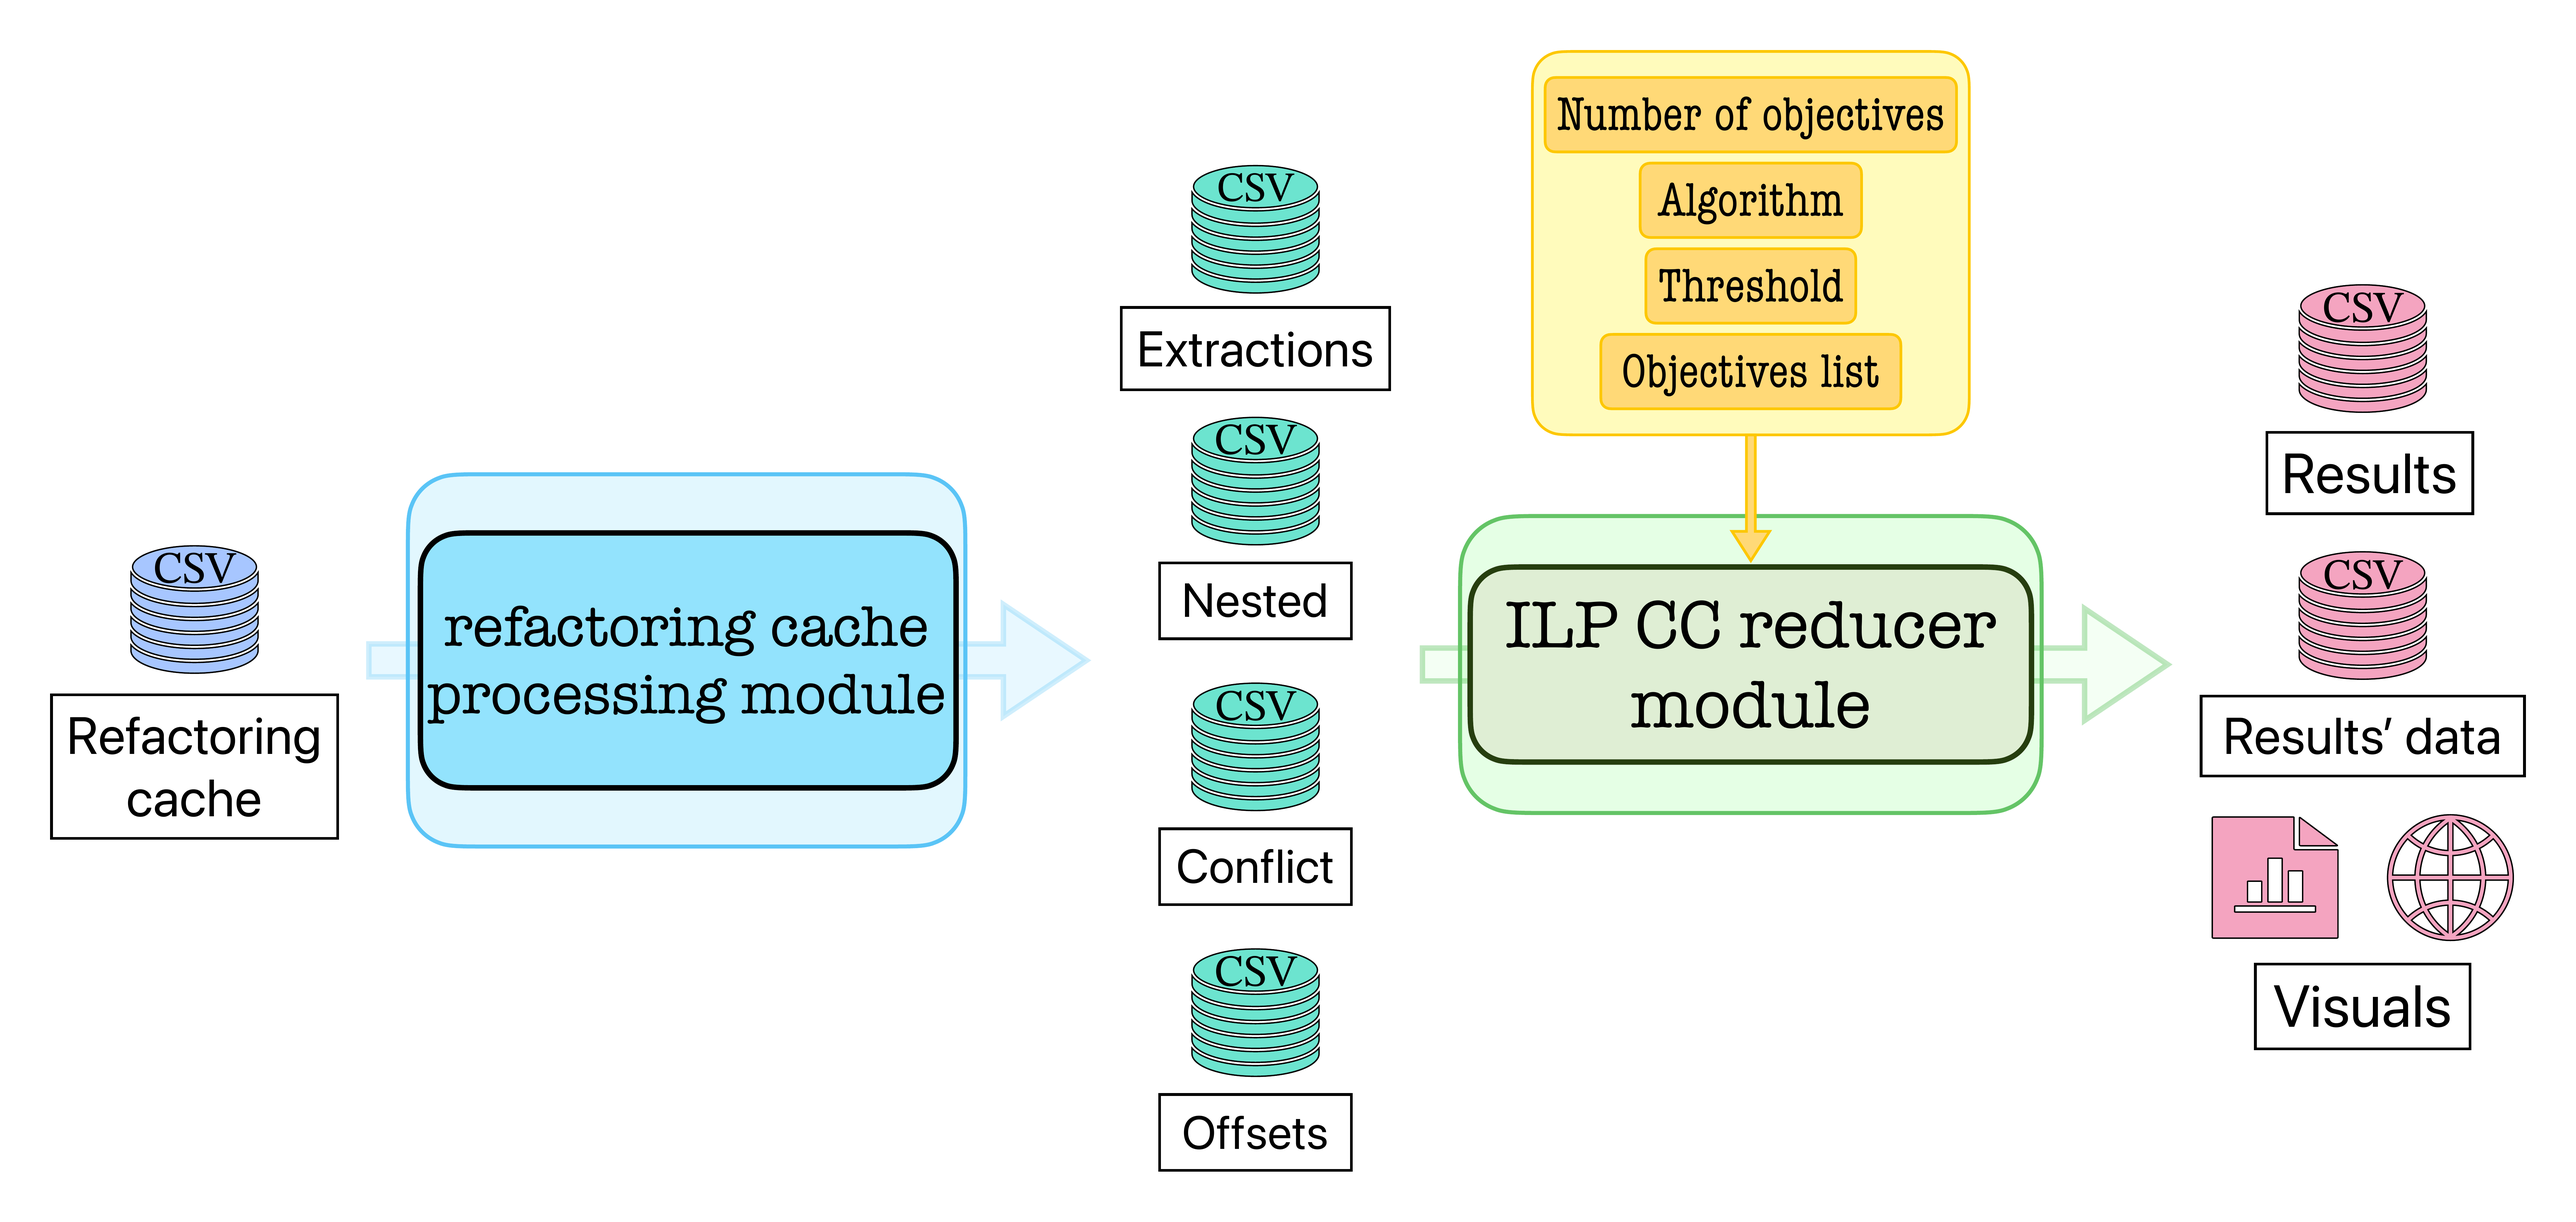
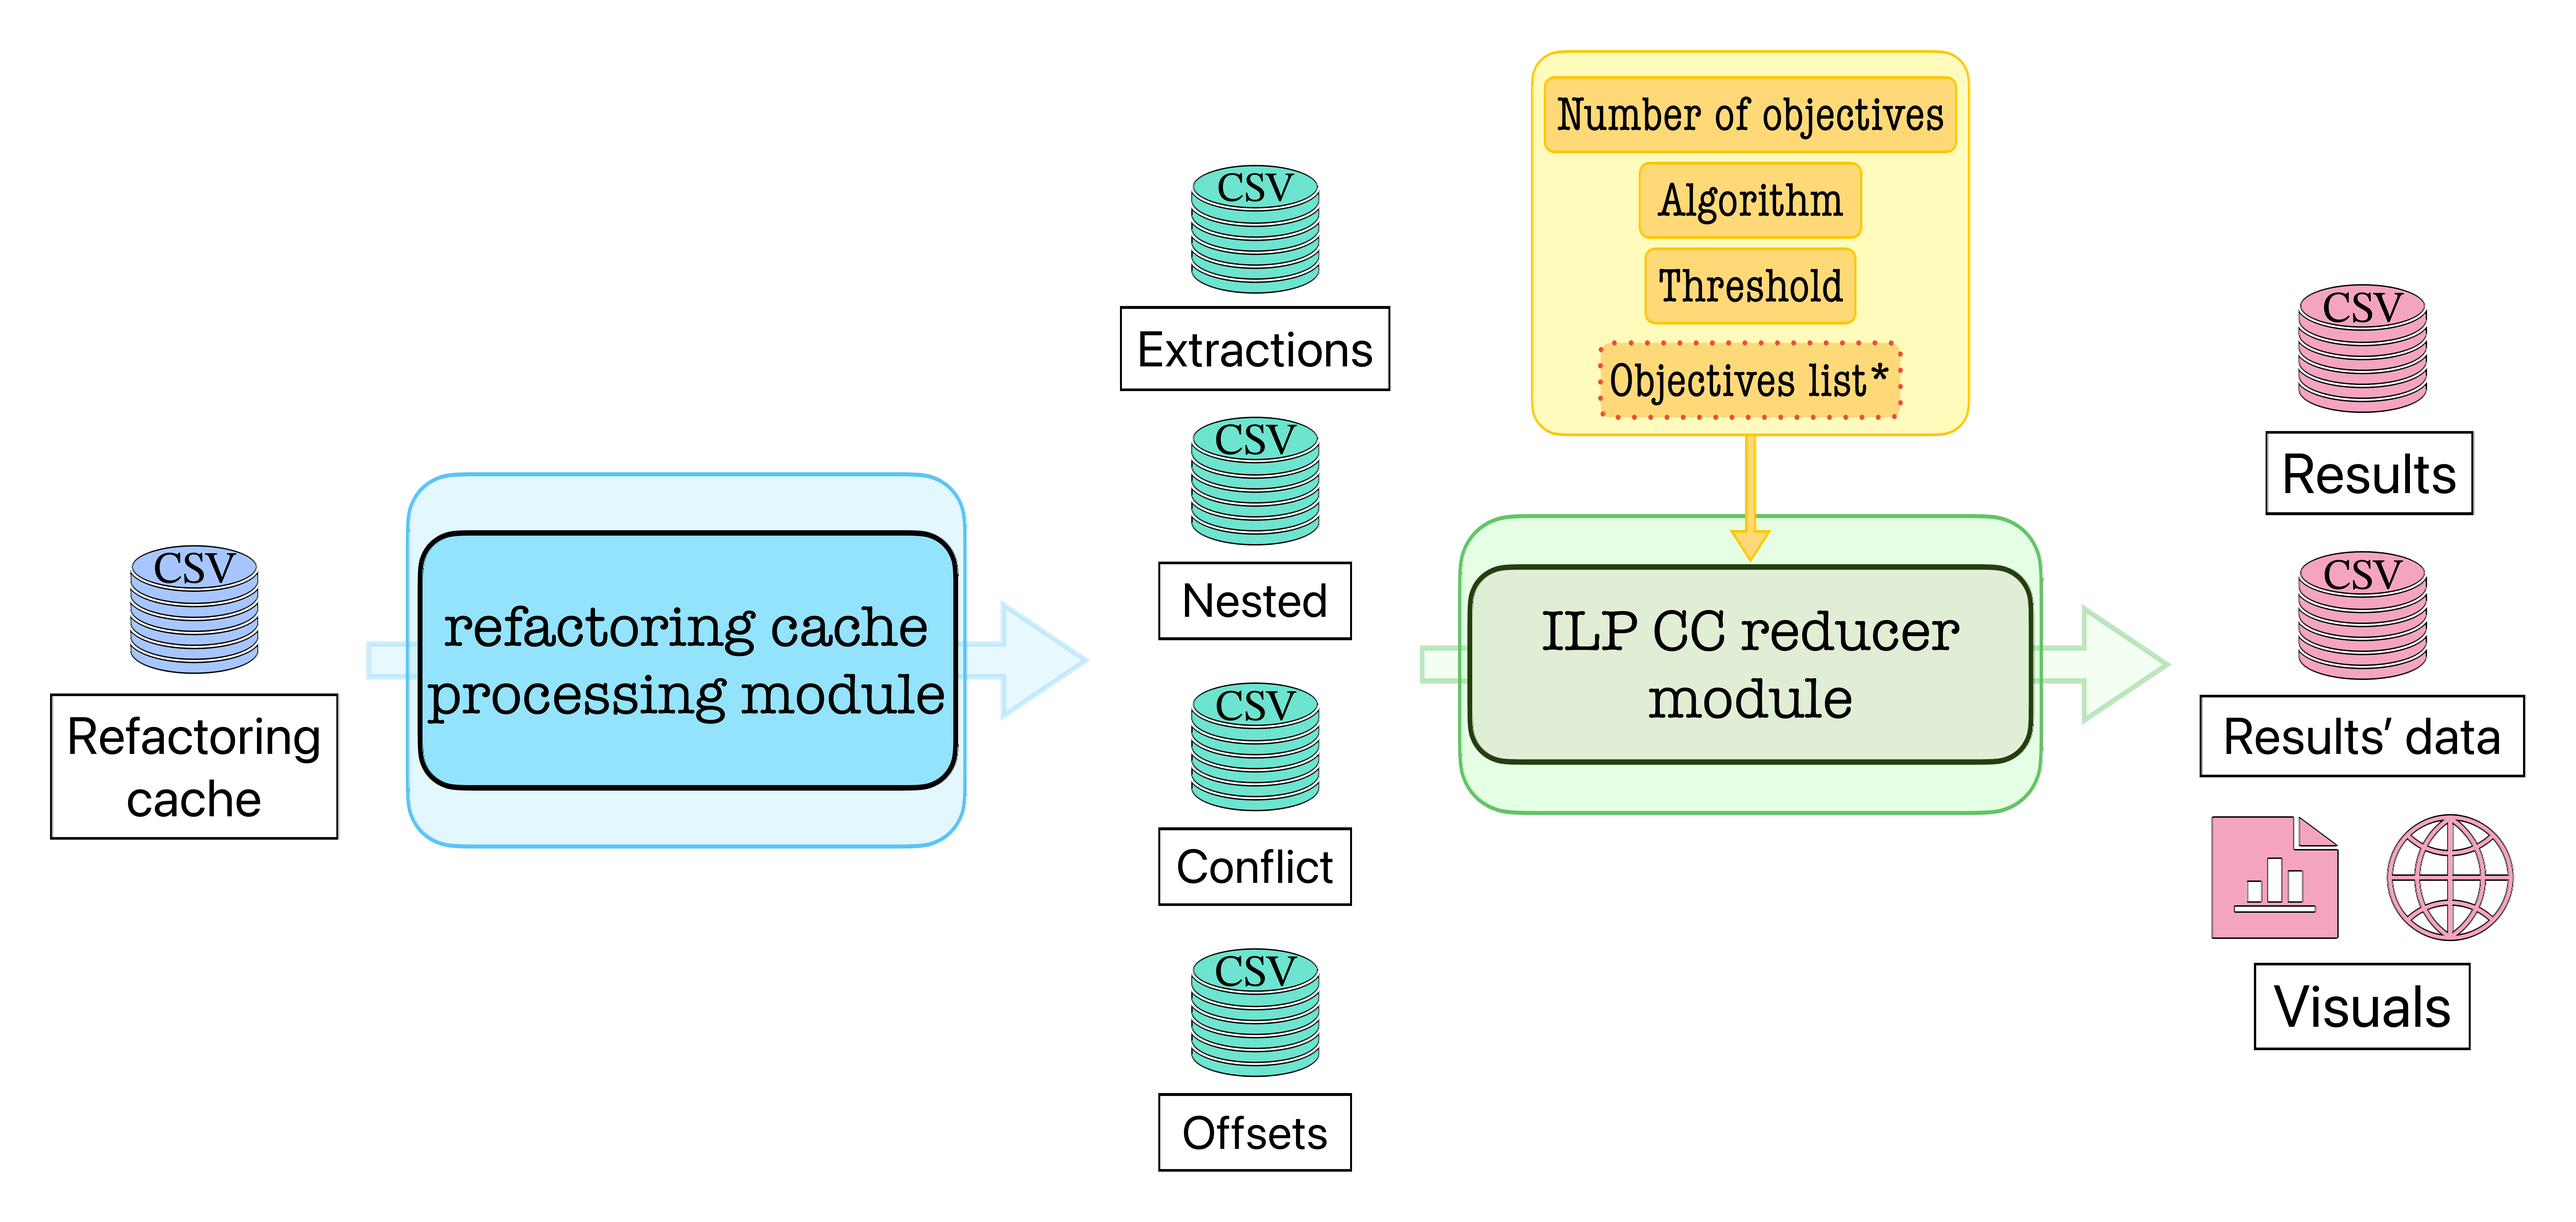
Minor changes on readme

Changed region(s): [[0.6233, 0.2488, 0.7479, 0.3421], [0.5609, 0.4976, 0.7791, 0.5287], [0.6233, 0.5598, 0.7168, 0.5909]]

diff --git a/README.md b/README.md
@@ -84,24 +84,24 @@ python main.py [OPTIONS]
 
 ## 🔧 Arguments
 
-| Argument                    | Description                                                                                                                                                                                                                         |
-|-----------------------------|-------------------------------------------------------------------------------------------------------------------------------------------------------------------------------------------------------------------------------------|
-| `-f`, `--file`              | Path to a `.ini` file containing all parameters.                                                                                                                                                                                    |
-| `-n`, `--num_of_objectives` | Number of objectives to be considered: 1, 2 or 3.                                                                                                                                                                                   |
-| `-i`, `--instance`          | Path to the model instance. It can be the folder path with the three data files in CSV format for multiobjective or the general folder path with all instances for one objective.                                                   |
+| Argument                    | Description                                                                                                                                                                                         |
+|-----------------------------|-----------------------------------------------------------------------------------------------------------------------------------------------------------------------------------------------------|
+| `-f`, `--file`              | Path to a `.ini` file containing all parameters.                                                                                                                                                    |
+| `-n`, `--num_of_objectives` | Number of objectives to be considered: 1, 2 or 3.                                                                                                                                                   |
+| `-i`, `--instance`          | Path to the model instance. It can be the folder path with the three data files in CSV format for multiobjective or the general folder path with all instances for one objective.                   |
 | `-a`, `--algorithm`         | Algorithm to use for solving single and multiobjective ILP problems. Must be one of: `['ObtainResultsAlgorithm', 'WeightedSumAlgorithm', 'EpsilonConstraintAlgorithm', 'HybridMethodForThreeObj']`. |
-| `-t`, `--tau`               | Threshold (τ) used in optimization (e.g., for ε-constraint).                                                                                                                                                                        |
-| `-s`, `--subdivisions`      | Number of subdivisions for generating weighted combinations.                                                                                                                                                                        |
-| `-w`, `--weights`           | Specific weights for weighted sum: `w1,w2` or `w1,w2,w3`.                                                                                                                                                                           |
-| `-o`, `--objectives`        | Objectives to minimize: `obj1,obj2` or `obj1,obj2,obj3`.                                                                                                                                                                            |
-| `--plot`                    | Plot the result of a specific experiment.                                                                                                                                                                                           |
-| `--3dPF`                    | Plot the 3D PF of the given result.                                                                                                                                                                                                 |
-| `--all_plots`               | Plot all results in the given directory.                                                                                                                                                                                            |
-| `--all_3dPF`                | Plot all 3D PFs in a given directory.                                                                                                                                                                                               |
-| `--statistics`              | Generate a CSV file with statistics for all results in the given directory.                                                                                                                                                         |
-| `--input`                   | Input directory for results (used for plotting/statistics). Defaults to `output/results`.                                                                                                                                           |
-| `--output`                  | Output directory for plots/statistics. Defaults to `output/plots_and_statistics`.                                                                                                                                                   |
-| `--save`                    | Save current configuration to a `.ini` file.                                                                                                                                                                                        |
+| `-t`, `--tau`               | Threshold (τ) used in optimization (e.g., for ε-constraint).                                                                                                                                        |
+| `-s`, `--subdivisions`      | Number of subdivisions for generating weighted combinations.                                                                                                                                        |
+| `-w`, `--weights`           | Specific weights for weighted sum: `w1,w2` or `w1,w2,w3`.                                                                                                                                           |
+| `-o`, `--objectives`        | (Optional) Objectives to minimize: `obj1,obj2` or `obj1,obj2,obj3`.                                                                                                                                 |
+| `--plot`                    | Plot the result of a specific experiment.                                                                                                                                                           |
+| `--3dPF`                    | Plot the 3D PF of the given result.                                                                                                                                                                 |
+| `--all_plots`               | Plot all results in the given directory.                                                                                                                                                            |
+| `--all_3dPF`                | Plot all 3D PFs in a given directory.                                                                                                                                                               |
+| `--statistics`              | Generate a CSV file with statistics for all results in the given directory.                                                                                                                         |
+| `--input`                   | Input directory for results (used for plotting/statistics). Defaults to `output/results`.                                                                                                           |
+| `--output`                  | Output directory for plots/statistics. Defaults to `output/plots_and_statistics`.                                                                                                                   |
+| `--save`                    | Save current configuration to a `.ini` file.                                                                                                                                                        |
 
 
 
